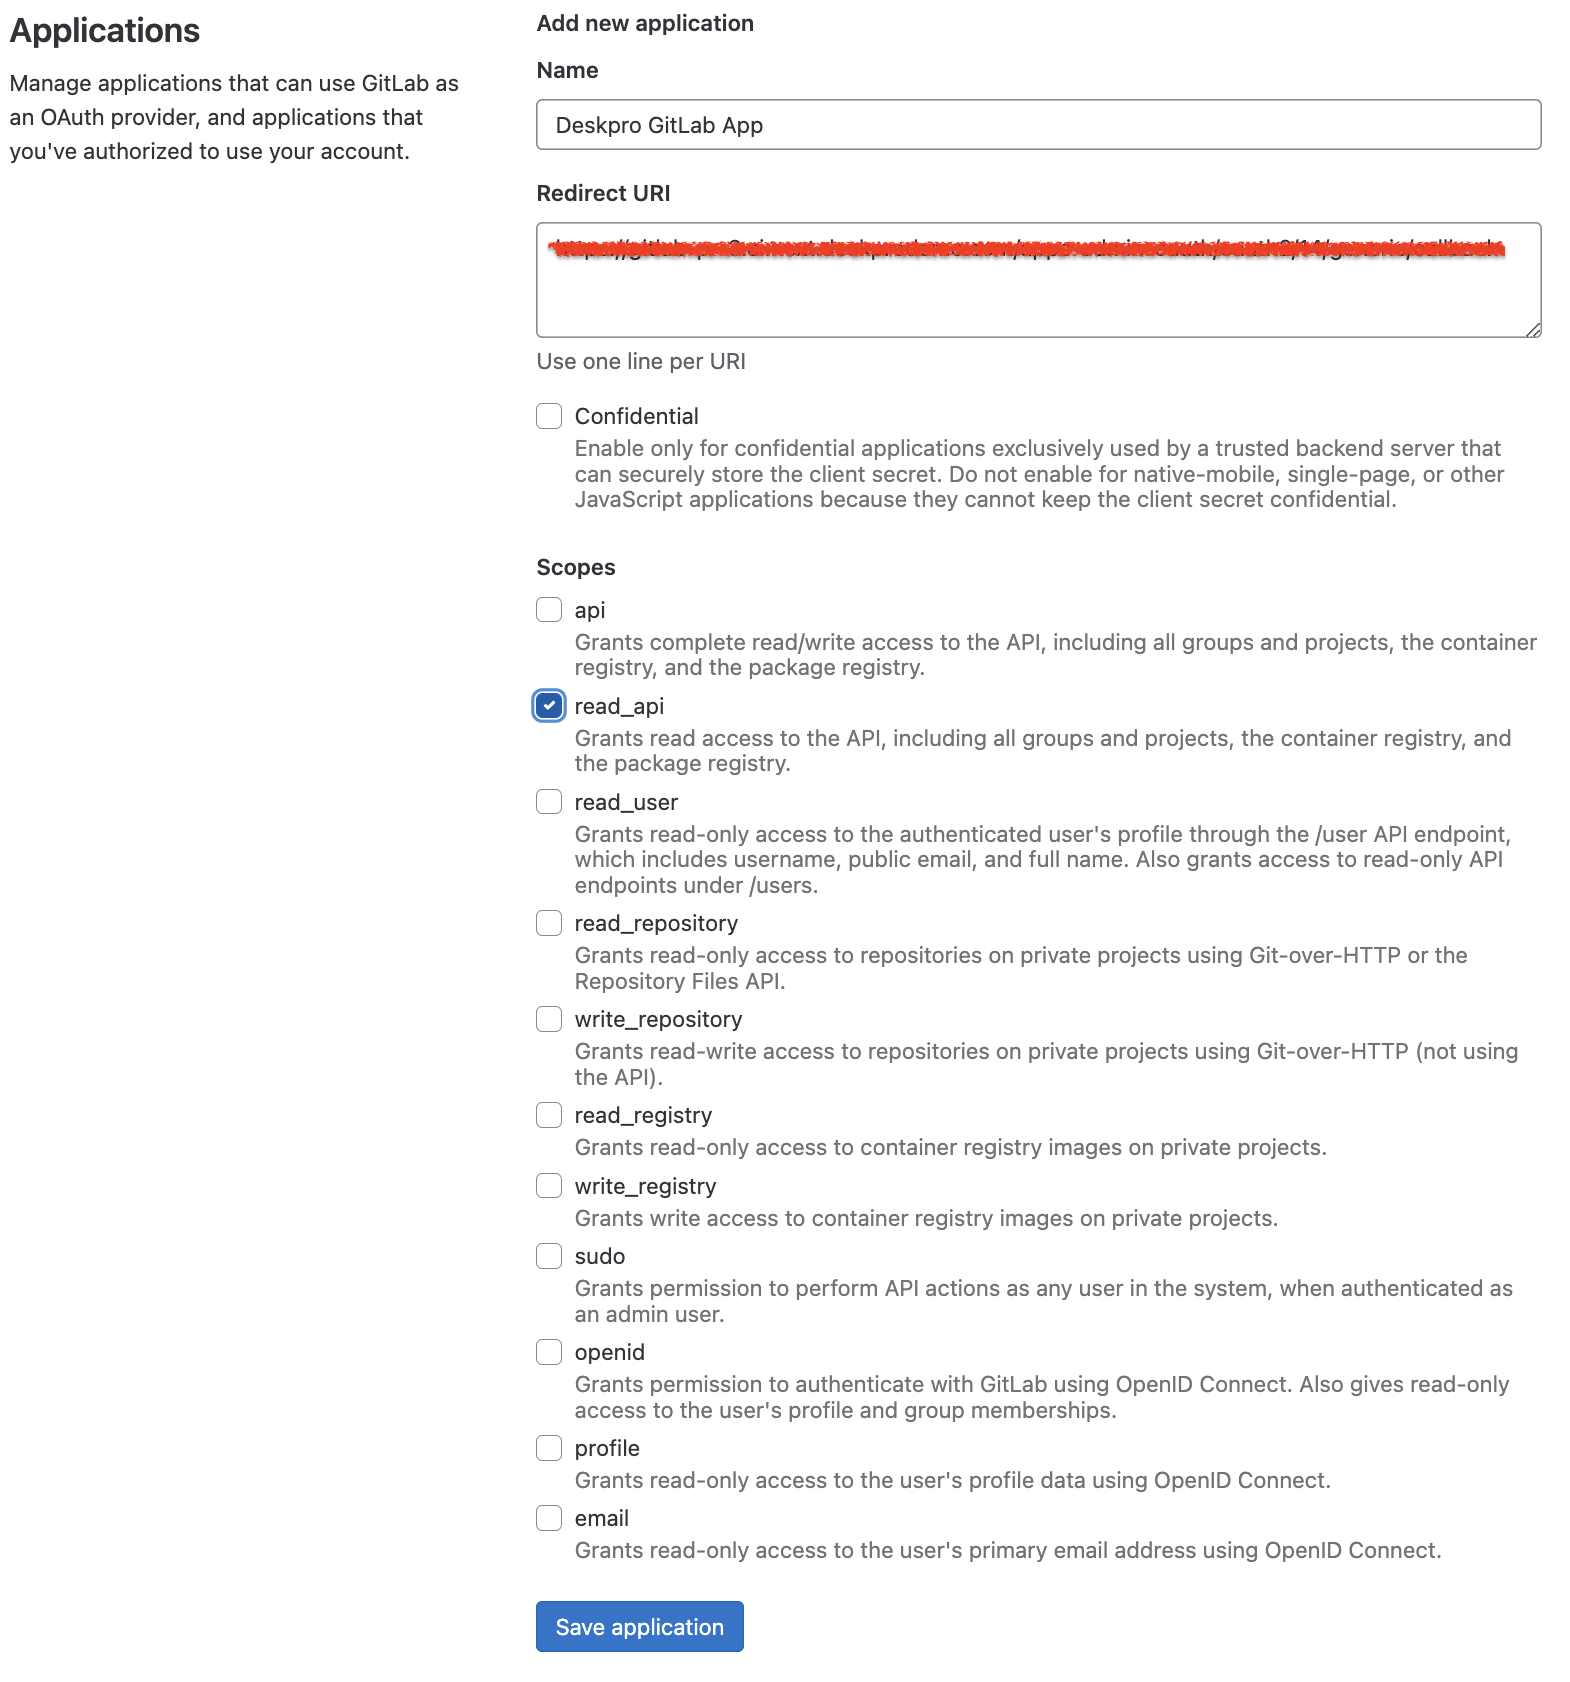
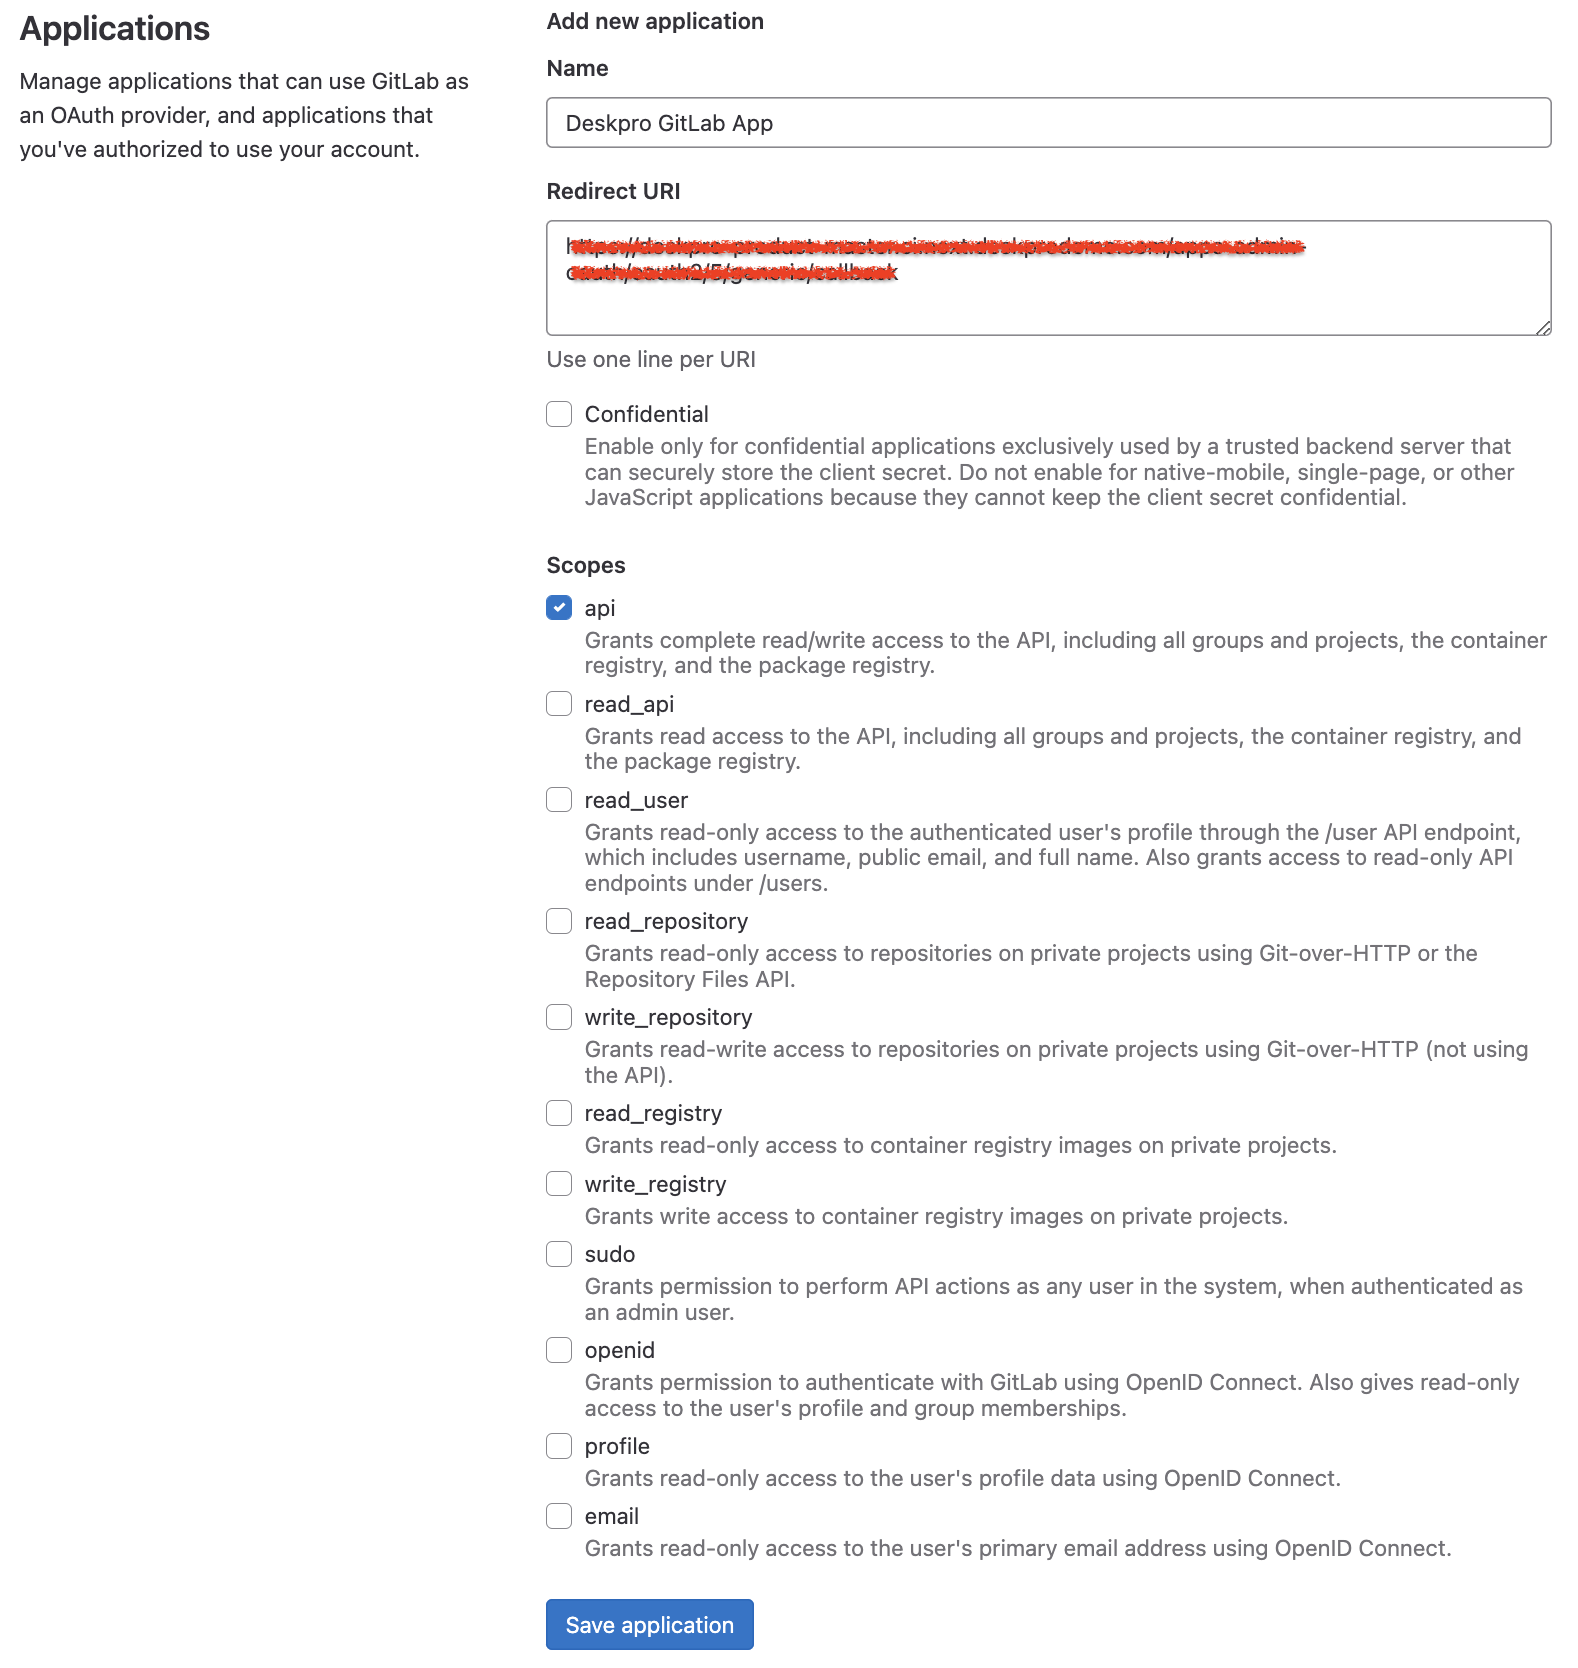
Updated setup guide

Changed region(s): [[0.3433, 0.0, 0.9675, 0.9976], [0.0, 0.0, 0.2809, 0.0935]]

diff --git a/SETUP.md b/SETUP.md
@@ -5,25 +5,25 @@ To install the GitLab app you must first create an "Application ID" and "Secret"
 
 Head over to GitLab and navigate to the "Edit profile" section (under your user profile menu, top right of the screen)
 
-[![](./docs/assets/setup/gitlab-setup-01.png)](/docs/assets/setup/gitlab-setup-01.png)
+[![](/docs/assets/setup/gitlab-setup-01.png)](/docs/assets/setup/gitlab-setup-01.png)
 
 Go to the "Applications" section of the left-hand menu.
 
-[![](./docs/assets/setup/gitlab-setup-02.png)](/docs/assets/setup/gitlab-setup-02.png)
+[![](/docs/assets/setup/gitlab-setup-02.png)](/docs/assets/setup/gitlab-setup-02.png)
 
 Enter the following details for your new Application:
 
 * Application Name - "Deskpro GitLab App"
 * Redirect URI - You can copy it in the GitLab settings on the settings tab
-* Select permissions scopes - `read_api`
+* Select permissions scopes - `api`
 
 Then click "Save application"
 
-[![](./docs/assets/setup/gitlab-setup-03.png)](/docs/assets/setup/gitlab-setup-03.png)
+[![](/docs/assets/setup/gitlab-setup-03.png)](/docs/assets/setup/gitlab-setup-03.png)
 
 On the next screen you can find note of your Application ID and Secret. **Keep these safe.**
 
-[![](./docs/assets/setup/gitlab-setup-04.png)](/docs/assets/setup/gitlab-setup-04.png)
+[![](/docs/assets/setup/gitlab-setup-04.png)](/docs/assets/setup/gitlab-setup-04.png)
 
 Ok, head back to Deskpro and enter your Application ID and Secret into the app settings form.
 
